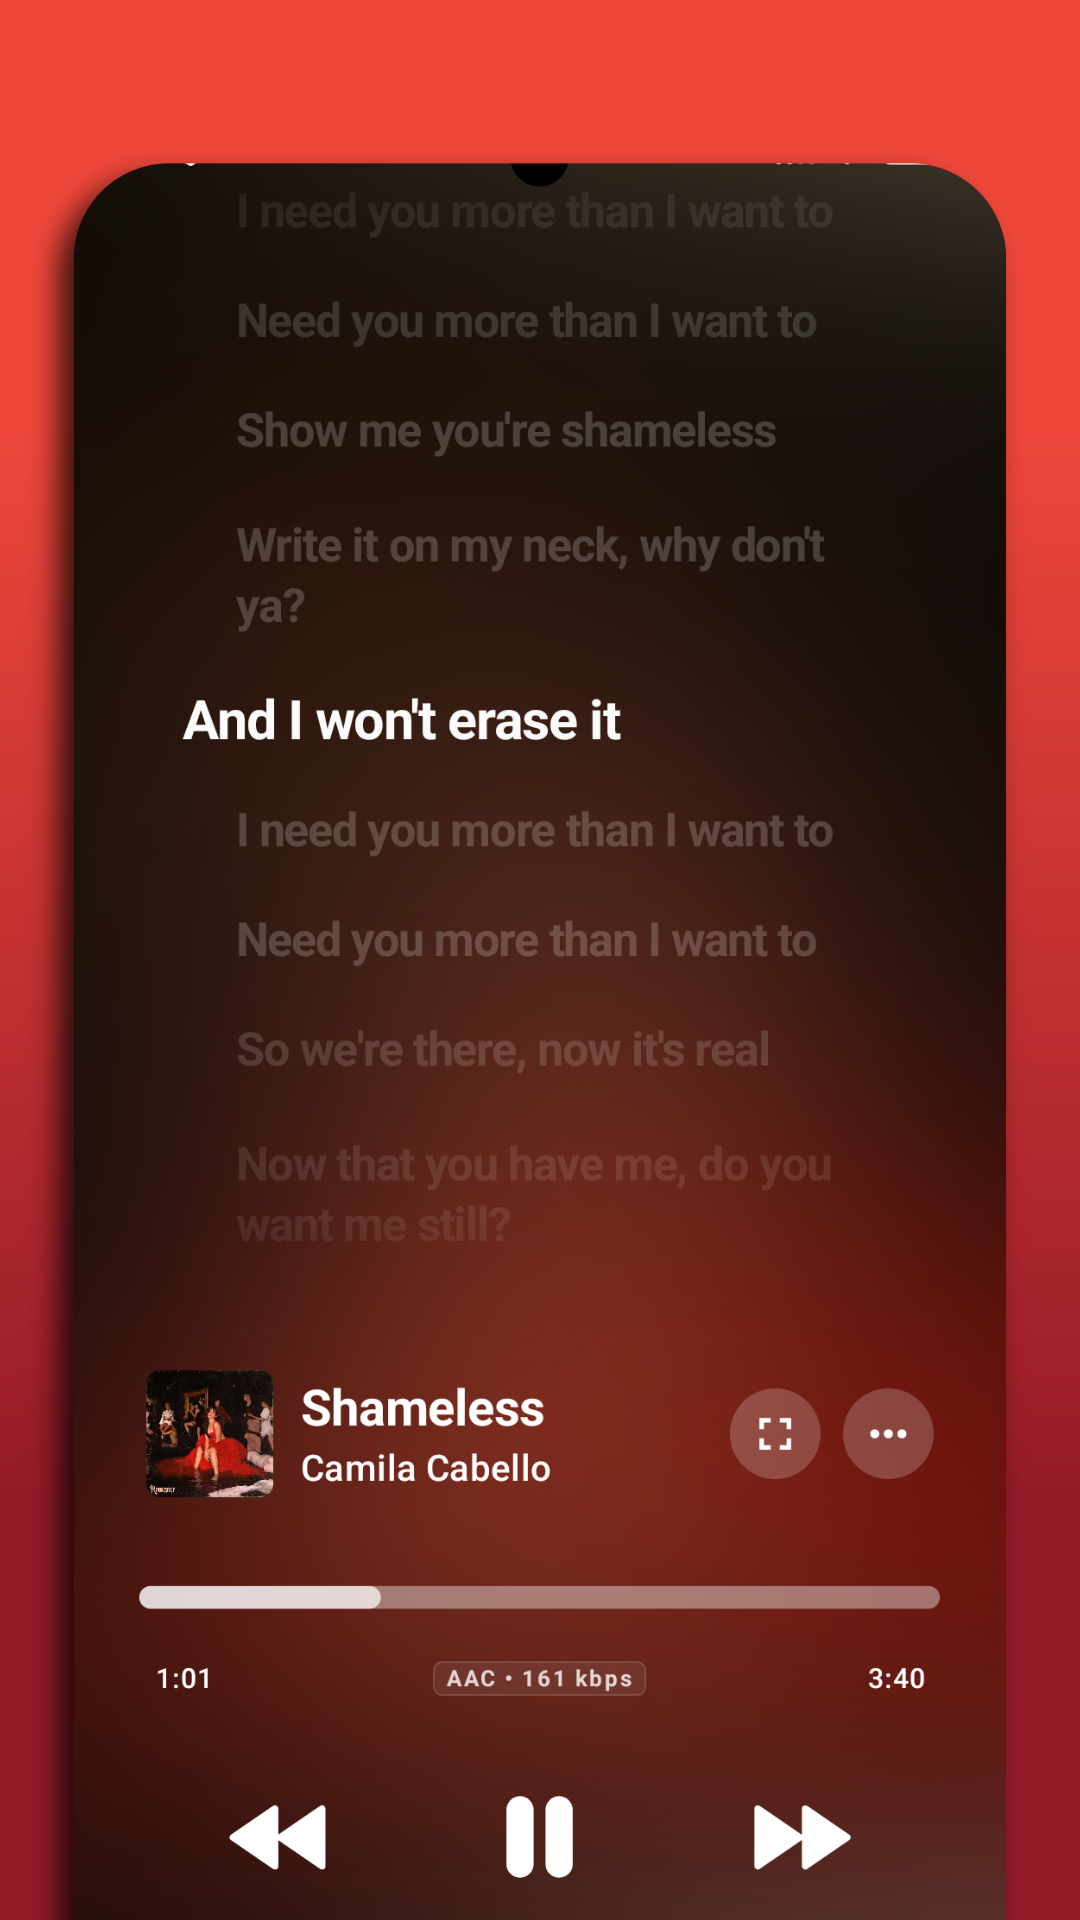
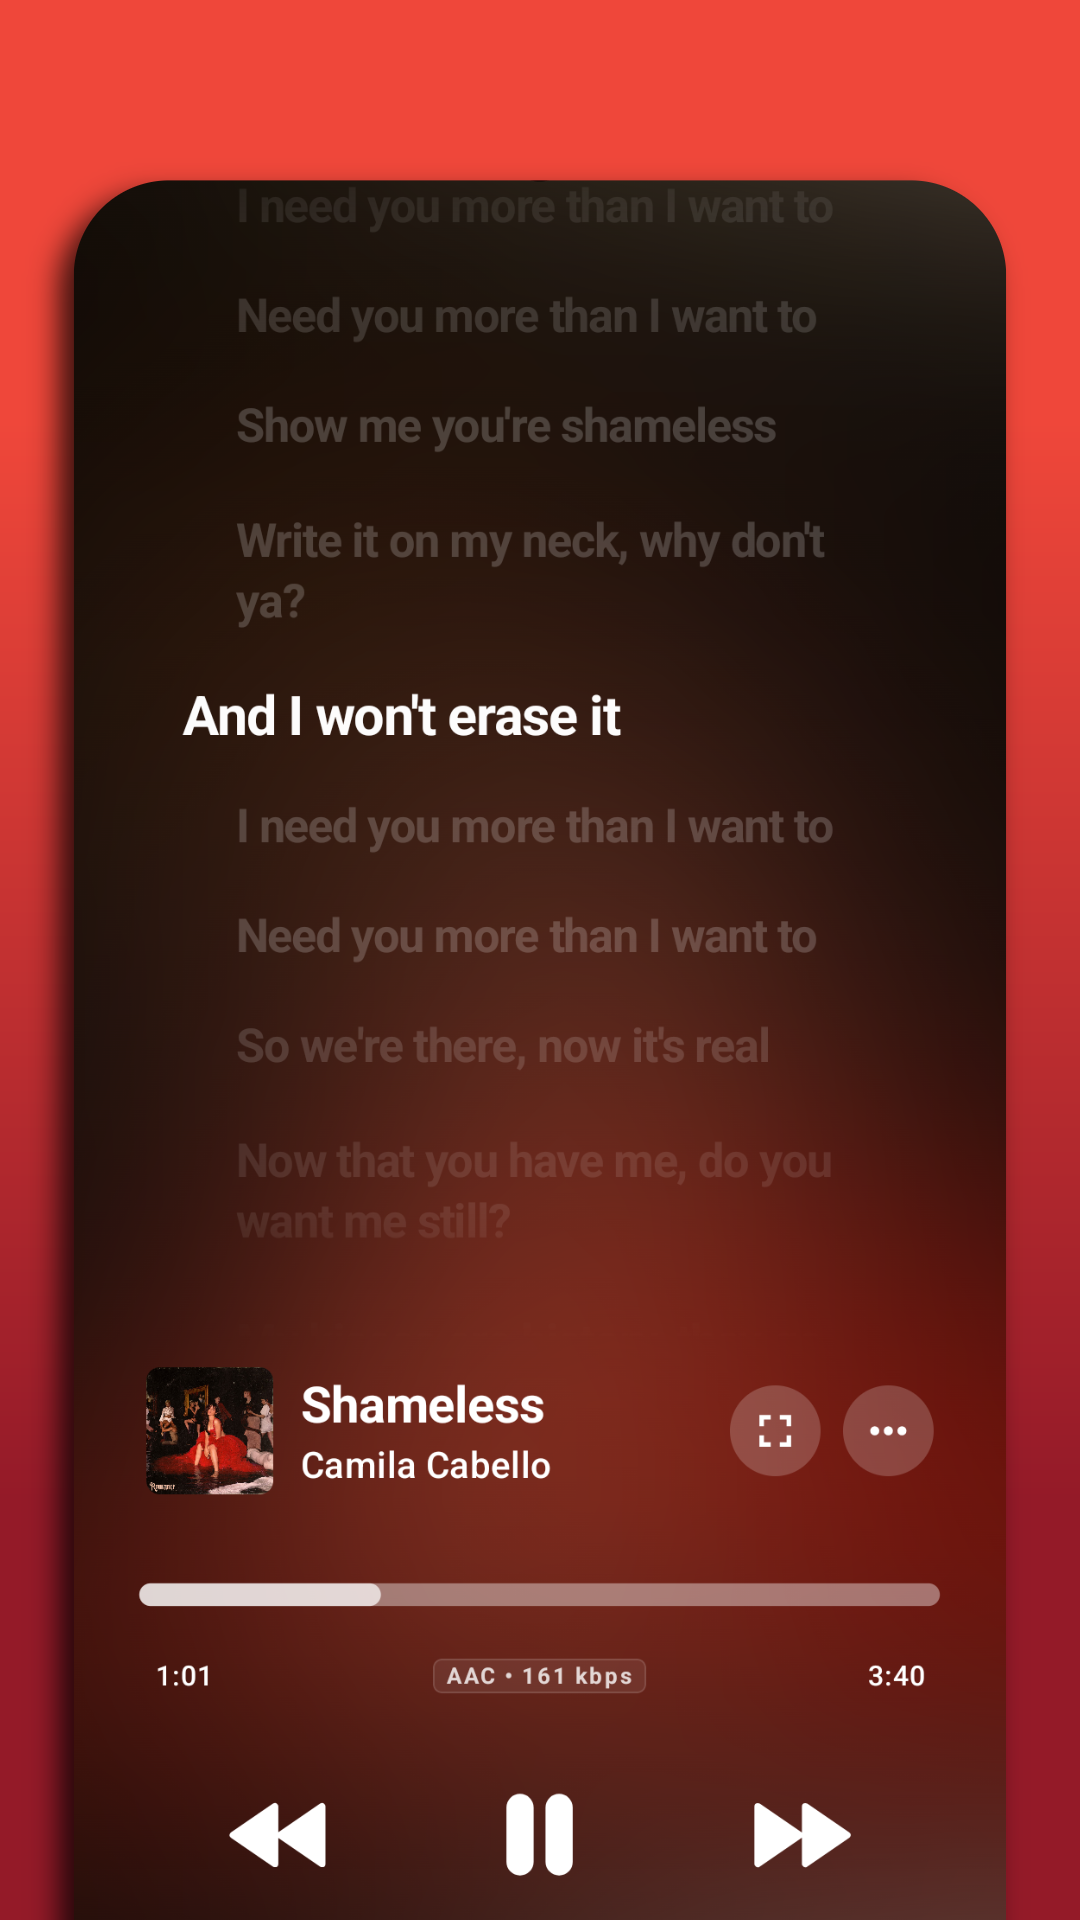
fix(ui): place hero carousel at top of Home, remove shortcuts, and fix Library spacing
- Keep the sliding hero carousel at the top of HomeScreen below the mood chips
- Remove HomeSection.Shortcuts from HomeScreen and remove the Home shortcuts toggle from ContentSettings
- Fix vertical alignment (Alignment.Top) on LibraryScreen HorizontalPager and add fillMaxSize() to LibraryMixScreen lists/grids to eliminate excess top spacing
- Align vertical paddings consistently across In-App Library and Spotify Library tabs

diff --git a/app/src/main/kotlin/com/music/echo/ui/screens/library/LibraryMixScreen.kt b/app/src/main/kotlin/com/music/echo/ui/screens/library/LibraryMixScreen.kt
@@ -6,6 +6,7 @@ import androidx.compose.foundation.layout.Arrangement
 import androidx.compose.foundation.layout.FlowRow
 import androidx.compose.foundation.layout.Row
 import androidx.compose.foundation.layout.asPaddingValues
+import androidx.compose.foundation.layout.fillMaxSize
 import androidx.compose.foundation.layout.fillMaxWidth
 import androidx.compose.foundation.layout.padding
 import androidx.compose.foundation.layout.size
@@ -273,6 +274,7 @@ fun LibraryMixScreen(
     state = pullRefreshState,
     isRefreshing = isRefreshing,
     onRefresh = viewModel::refresh,
+    modifier = Modifier.fillMaxSize(),
     indicator = {
       PullToRefreshDefaults.LoadingIndicator(
         state = pullRefreshState,
@@ -286,6 +288,7 @@ fun LibraryMixScreen(
         LazyColumn(
           state = lazyListState,
           contentPadding = LocalPlayerAwareWindowInsets.current.asPaddingValues(),
+          modifier = Modifier.fillMaxSize(),
         ) {
           item(
             key = "filter",
@@ -304,7 +307,7 @@ fun LibraryMixScreen(
               verticalArrangement = Arrangement.spacedBy(8.dp),
               modifier =
                 Modifier.fillMaxWidth()
-                  .padding(start = 16.dp, end = 16.dp, top = 8.dp, bottom = 4.dp),
+                  .padding(start = 16.dp, end = 16.dp, top = 4.dp, bottom = 4.dp),
             ) {
               val itemModifier = Modifier.weight(1f)
               if (showLiked) {
@@ -387,7 +390,7 @@ fun LibraryMixScreen(
             Row(
               modifier =
                 Modifier.fillMaxWidth()
-                  .padding(start = 16.dp, end = 16.dp, top = 12.dp, bottom = 4.dp),
+                  .padding(start = 16.dp, end = 16.dp, top = 8.dp, bottom = 2.dp),
               verticalAlignment = Alignment.CenterVertically,
               horizontalArrangement = Arrangement.SpaceBetween,
             ) {
@@ -569,6 +572,7 @@ fun LibraryMixScreen(
                 GridThumbnailHeight + if (gridItemSize == GridItemSize.BIG) 24.dp else (-24).dp,
             ),
           contentPadding = LocalPlayerAwareWindowInsets.current.asPaddingValues(),
+          modifier = Modifier.fillMaxSize(),
         ) {
           item(
             key = "filter",
@@ -589,7 +593,7 @@ fun LibraryMixScreen(
               verticalArrangement = Arrangement.spacedBy(8.dp),
               modifier =
                 Modifier.fillMaxWidth()
-                  .padding(start = 16.dp, end = 16.dp, top = 8.dp, bottom = 4.dp),
+                  .padding(start = 16.dp, end = 16.dp, top = 4.dp, bottom = 4.dp),
             ) {
               val itemModifier = Modifier.weight(1f)
               if (showLiked) {
@@ -673,7 +677,7 @@ fun LibraryMixScreen(
             Row(
               modifier =
                 Modifier.fillMaxWidth()
-                  .padding(start = 16.dp, end = 16.dp, top = 12.dp, bottom = 4.dp),
+                  .padding(start = 16.dp, end = 16.dp, top = 8.dp, bottom = 2.dp),
               verticalAlignment = Alignment.CenterVertically,
               horizontalArrangement = Arrangement.SpaceBetween,
             ) {

diff --git a/app/src/main/kotlin/com/music/echo/ui/screens/settings/ContentSettings.kt b/app/src/main/kotlin/com/music/echo/ui/screens/settings/ContentSettings.kt
@@ -114,7 +114,6 @@ import echo.music.iad1tya.constants.ShowHomeCommunityKey
 import echo.music.iad1tya.constants.ShowHomeHeroCarouselKey
 import echo.music.iad1tya.constants.ShowHomeMoodAndGenresKey
 import echo.music.iad1tya.constants.ShowMonthlyListenersKey
-import echo.music.iad1tya.constants.ShowSpeedDialKey
 import echo.music.iad1tya.constants.SponsorBlockEnabledKey
 import echo.music.iad1tya.constants.SpotifySpDcKey
 import echo.music.iad1tya.constants.SuggestionRegionKey
@@ -253,8 +252,6 @@ fun ContentSettings(
   val (lengthTop, onLengthTopChange) = rememberPreference(key = TopSize, defaultValue = "50")
   val (quickPicks, onQuickPicksChange) =
     rememberEnumPreference(key = QuickPicksKey, defaultValue = QuickPicks.QUICK_PICKS)
-  val (showSpeedDial, onShowSpeedDialChange) =
-    rememberPreference(key = ShowSpeedDialKey, defaultValue = true)
   val (showHomeHeroCarousel, onShowHomeHeroCarouselChange) =
     rememberPreference(key = ShowHomeHeroCarouselKey, defaultValue = true)
   val (showHomeCommunity, onShowHomeCommunityChange) =
@@ -1211,24 +1208,6 @@ fun ContentSettings(
               )
             },
             onClick = { showQuickPicksDialog = true },
-          ),
-          Material3SettingsItem(
-            isHighlighted = (highlightKey == "Speed Dial"),
-            icon = painterResource(R.drawable.grid_view),
-            title = { Text(stringResource(R.string.home_shortcuts)) },
-            description = { Text(stringResource(R.string.home_shortcuts_desc)) },
-            trailingContent = {
-              Switch(
-                checked = showSpeedDial,
-                onCheckedChange = { onShowSpeedDialChange(it) },
-                colors =
-                  SwitchDefaults.colors(
-                    checkedThumbColor = MaterialTheme.colorScheme.onPrimary,
-                    checkedTrackColor = MaterialTheme.colorScheme.primary,
-                  ),
-              )
-            },
-            onClick = { onShowSpeedDialChange(!showSpeedDial) },
           ),
           Material3SettingsItem(
             isHighlighted = (highlightKey == stringResource(R.string.home_featured_carousel)),

diff --git a/app/src/main/kotlin/com/music/echo/ui/screens/library/LibrarySpotifyScreen.kt b/app/src/main/kotlin/com/music/echo/ui/screens/library/LibrarySpotifyScreen.kt
@@ -174,7 +174,7 @@ fun LibrarySpotifyScreen(
             color = MaterialTheme.colorScheme.onSurface,
             modifier =
               Modifier.fillMaxWidth()
-                .padding(start = 20.dp, end = 20.dp, top = 16.dp, bottom = 12.dp),
+                .padding(start = 16.dp, end = 16.dp, top = 4.dp, bottom = 8.dp),
           )
         }
 
@@ -184,7 +184,7 @@ fun LibrarySpotifyScreen(
           contentType = CONTENT_TYPE_HEADER,
         ) {
           Row(
-            modifier = Modifier.fillMaxWidth().padding(start = 20.dp, end = 20.dp, bottom = 16.dp),
+            modifier = Modifier.fillMaxWidth().padding(start = 16.dp, end = 16.dp, bottom = 10.dp),
             verticalAlignment = Alignment.CenterVertically,
           ) {
             Icon(
@@ -261,7 +261,7 @@ fun LibrarySpotifyScreen(
                   .show()
               }
             },
-            modifier = Modifier.padding(start = 16.dp, end = 16.dp, top = 6.dp, bottom = 4.dp),
+            modifier = Modifier.padding(start = 16.dp, end = 16.dp, top = 4.dp, bottom = 4.dp),
           )
         }
 
@@ -275,7 +275,7 @@ fun LibrarySpotifyScreen(
           Row(
             modifier =
               Modifier.fillMaxWidth()
-                .padding(start = 16.dp, end = 16.dp, top = 12.dp, bottom = 4.dp),
+                .padding(start = 16.dp, end = 16.dp, top = 8.dp, bottom = 2.dp),
             verticalAlignment = Alignment.CenterVertically,
             horizontalArrangement = Arrangement.SpaceBetween,
           ) {

diff --git a/app/src/main/kotlin/com/music/echo/ui/component/HomeShortcutTile.kt b/app/src/main/kotlin/com/music/echo/ui/component/HomeShortcutTile.kt
@@ -16,6 +16,7 @@ import androidx.compose.runtime.Composable
 import androidx.compose.ui.Alignment
 import androidx.compose.ui.Modifier
 import androidx.compose.ui.draw.clip
+import androidx.compose.ui.graphics.Color
 import androidx.compose.ui.layout.ContentScale
 import androidx.compose.ui.res.painterResource
 import androidx.compose.ui.text.font.FontWeight
@@ -43,15 +44,17 @@ fun HomeShortcutTile(
         .height(56.dp)
         .clip(RoundedCornerShape(8.dp))
         .background(
-          if (isActive) MaterialTheme.colorScheme.secondaryContainer
-          else MaterialTheme.colorScheme.surfaceContainerHigh,
+          if (isActive) MaterialTheme.colorScheme.secondaryContainer else Color.Transparent,
         ),
   ) {
     AsyncImage(
       model = item.thumbnail?.resize(226, 226),
       contentDescription = null,
       contentScale = ContentScale.Crop,
-      modifier = Modifier.size(56.dp).background(MaterialTheme.colorScheme.surfaceVariant),
+      modifier =
+        Modifier.size(56.dp)
+          .clip(RoundedCornerShape(8.dp))
+          .background(MaterialTheme.colorScheme.surfaceVariant),
     )
     Text(
       text = item.title,

diff --git a/app/src/main/kotlin/com/music/echo/ui/screens/HomeScreen.kt b/app/src/main/kotlin/com/music/echo/ui/screens/HomeScreen.kt
@@ -722,7 +722,6 @@ fun HomeScreen(
       // A selected chip shows only that chip's content; the personal sections live on the main
       // Home.
       if (selectedChip == null) {
-        if (showSpeedDial && speedDialItems.isNotEmpty()) list.add(HomeSection.Shortcuts)
         if (showHeroCarousel && heroSongs.isNotEmpty()) list.add(HomeSection.HeroCarousel)
         if (
           dailyDiscover?.isNotEmpty() == true || aiRecommendedPlaylist?.second?.isNotEmpty() == true
@@ -774,8 +773,8 @@ fun HomeScreen(
       // keep loading as you scroll.
       list.sortedByDescending { section ->
         when (section) {
-          HomeSection.Shortcuts -> 20000
-          HomeSection.HeroCarousel -> 19000
+          HomeSection.HeroCarousel -> 20000
+          HomeSection.Shortcuts -> 19000
           is HomeSection.HomePageSection ->
             if (section.index < HomeLeadingYouTubeSections) 10000 - section.index
             else -section.index

diff --git a/app/src/main/kotlin/com/music/echo/ui/screens/library/LibraryScreen.kt b/app/src/main/kotlin/com/music/echo/ui/screens/library/LibraryScreen.kt
@@ -239,6 +239,7 @@ fun LibraryScreen(navController: NavController) {
               HorizontalPager(
                 state = pagerState,
                 beyondViewportPageCount = 1,
+                verticalAlignment = Alignment.Top,
                 modifier = Modifier.weight(1f).fillMaxWidth().clipToBounds(),
               ) { page ->
                 when (LibrarySourceTab.entries[page]) {
@@ -496,7 +497,7 @@ private fun LibrarySourceTabs(
       modifier
         .fillMaxWidth()
         .windowInsetsPadding(WindowInsets.systemBars.only(WindowInsetsSides.Horizontal))
-        .padding(horizontal = 16.dp, vertical = 6.dp),
+        .padding(start = 16.dp, end = 16.dp, top = 0.dp, bottom = 4.dp),
   ) {
     androidx.compose.material3.Surface(
       shape = CircleShape,

diff --git a/app/src/main/kotlin/com/music/echo/ui/screens/artist/ArtistScreen.kt b/app/src/main/kotlin/com/music/echo/ui/screens/artist/ArtistScreen.kt
@@ -330,7 +330,7 @@ fun ArtistScreen(
                             0.55f to androidx.compose.ui.graphics.Color.Transparent,
                             1f to
                               androidx.compose.material3.MaterialTheme.colorScheme.surface.copy(
-                                alpha = 0.7f
+                                alpha = 0.7f,
                               ),
                           ),
                         ),

diff --git a/artistvideo/src/main/kotlin/com/music/echo/artistvideo/ArtistVideo.kt b/artistvideo/src/main/kotlin/com/music/echo/artistvideo/ArtistVideo.kt
@@ -123,7 +123,7 @@ fun ArtistVideo(
             Modifier.background(Color.Black.copy(alpha = 0.3f)).clickable { onClick() }
           } else {
             Modifier
-          }
+          },
         ),
   ) {
     AndroidView(
